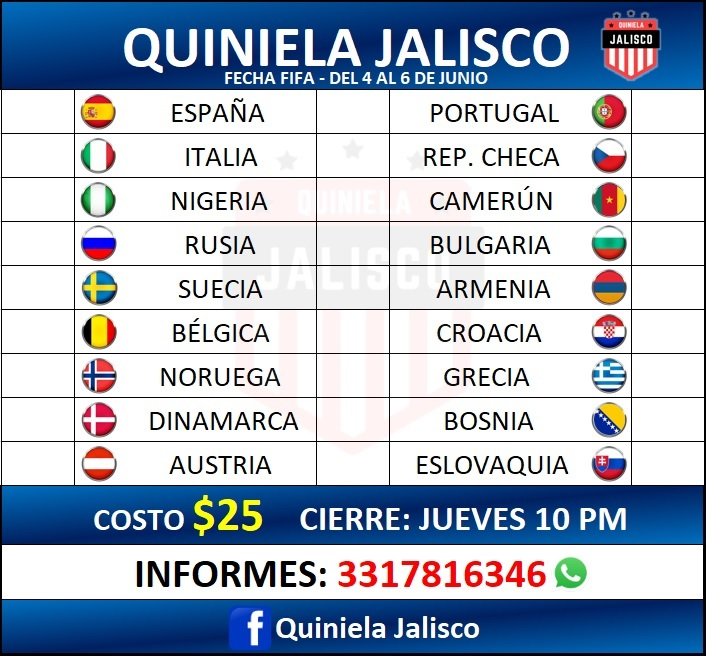
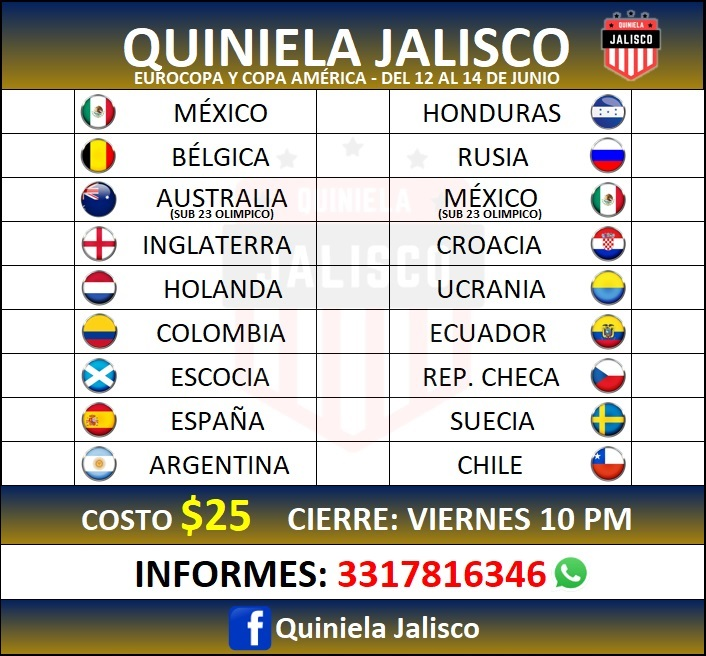
Euro/America 1

diff --git a/styles.css b/styles.css
@@ -73,7 +73,7 @@ body{
     max-width: 400px;
     margin: auto;
     background-color: rgb(6,12,37);
-    background-image: url("fondo7.jpg");
+    background-image: url("fondo8.jpg");
     background-repeat: repeat-y;
     background-position: top;
 }
@@ -85,11 +85,12 @@ h1{
     text-align: center;
     padding: 18px;
     color: whitesmoke;
+    text-shadow: black 3px 1px;
     margin-top: 8%;
     border: solid 1px black;
     border-radius: 0 0 14px 14px;
-    background: -webkit-linear-gradient(0.04turn, rgb(1,36,100)  ,rgb(2,108,184) 80%);
-    background: linear-gradient(0.04turn, rgb(1,36,100)  ,rgb(2,108,184) 80%);
+    background: -webkit-linear-gradient(0.5turn, rgb(163,126,22)  ,rgb(4,35,92) 80%);
+    background: linear-gradient(0.5turn, rgb(163,126,22)  ,rgb(4,35,92) 80%);
     font-size: x-large;
 }
 
